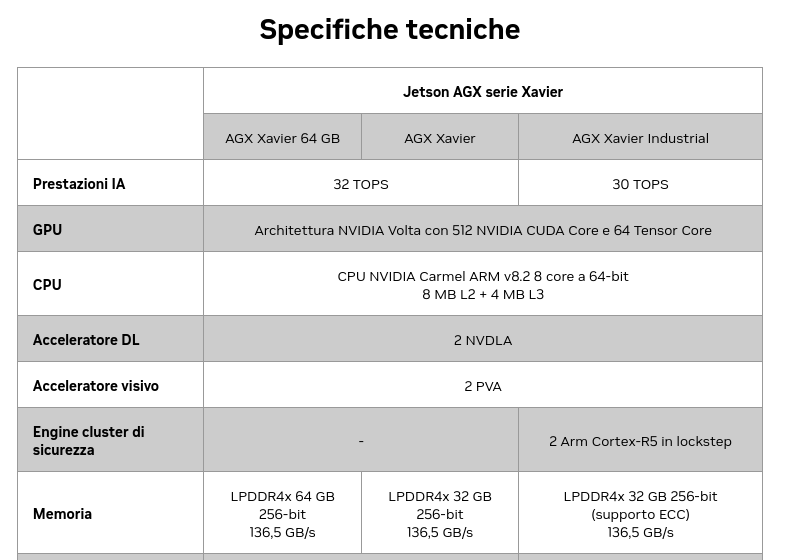
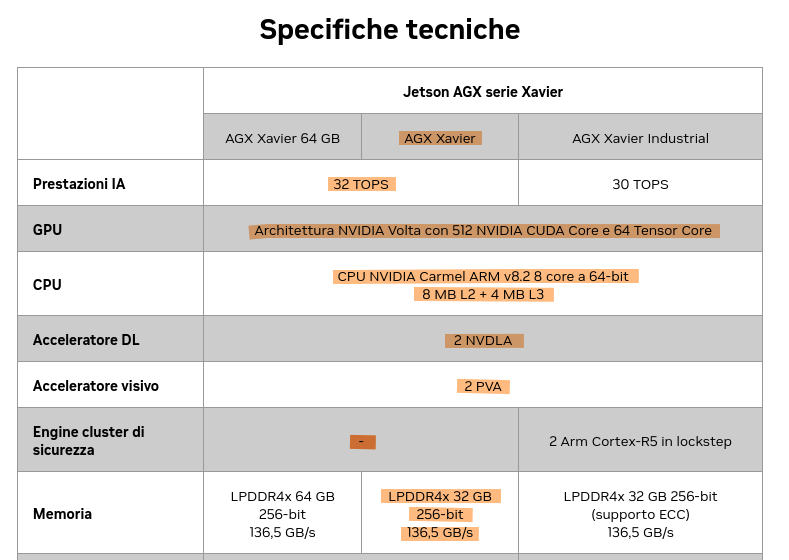
Add other data result on thesis

diff --git a/Thesis/src/modena.tex b/Thesis/src/modena.tex
@@ -750,7 +750,8 @@ Il programma di valutazione è disponibile pubblicamente e può essere accessibi
 
 \subsection{Ambiente Hardware e Software}
 
-Gli esperimenti sono stati condotti su un sistema con le seguenti specifiche tecniche:
+Gli esperimenti sono stati condotti su due diversi dispositivi.
+Il primo dispositivo è un \textbf{laptop} con le con le seguenti specifiche tecniche:
 
 \begin{itemize}
     \item CPU: 12th Gen Intel(R) Core(TM) i7-1280P
@@ -761,6 +762,19 @@ Gli esperimenti sono stati condotti su un sistema con le seguenti specifiche tec
     \item CUDA Driver Version: 535.183.01  
     \item CUDA Version: 12.2
 \end{itemize}
+
+\vspace{1cm}
+
+Il secondo dispositivo è una \textbf{board} detta anche \textbf{modulo}.
+Il sito ufficiale di \textit{NVIDIA} definisce che "\textit{la gamma di moduli Jetson Xavier™ include i primi computer del mondo progettati appositamente per le macchine autonome, con prestazioni IA fino a 32 TOPS che li rendono ideali per gestire l'odometria grafica, la fusione di sensori, la localizzazione e la mappatura, il rilevamento di ostacoli e gli algoritmi di pianificazione dei percorsi fondamentali per i robot di nuova generazione}" \cite{board-series}
+
+La \textcolor{orange}{specifiche tecniche} della board utilizzata sono quelle evidenziate in arancione e si riferiscono al modello \textbf{Nvidia Jetson Xavier AGX 32GB}:
+
+\begin{figure}[H]
+    \centering
+    \fbox{\includegraphics[width=1\textwidth]{img/specifiche_tecniche_board.png}}
+    \caption{Nvidia Jetson Xavier AGX 32GB \cite{board-specific}}
+\end{figure}
 
 \subsection{Procedura Sperimentale}
 
@@ -833,7 +847,7 @@ Si osserva inoltre che i tempi nella parte di \textbf{Stereo Matching} mostrano 
 
 \begin{table}[h]
     \centering
-    \caption{Esperimenti variazione raggio (KITTY DATASET - 04) }
+    \caption{Esperimenti variazione raggio (KITTY DATASET - 04) [laptop] }
     \begin{tabular}{lcccccc}
         \toprule
         \rowcolor{gray!20}
@@ -864,7 +878,7 @@ Si osserva inoltre che i tempi nella parte di \textbf{Stereo Matching} mostrano 
 
 \begin{table}[h]
     \centering
-    \caption{Esperimenti variazione raggio (KITTY DATASET - 06) }
+    \caption{Esperimenti variazione raggio (KITTY DATASET - 06) [laptop] }
     \begin{tabular}{lcccccc}
         \toprule
         \rowcolor{gray!20}
@@ -895,7 +909,7 @@ Si osserva inoltre che i tempi nella parte di \textbf{Stereo Matching} mostrano 
 \newpage
 \begin{table}[h]
     \centering
-    \caption{Esperimenti variazione raggio (KITTY DATASET - 07) }
+    \caption{Esperimenti variazione raggio (KITTY DATASET - 07) [laptop] }
     \begin{tabular}{lcccccc}
         \toprule
         \rowcolor{gray!20}
@@ -935,15 +949,18 @@ In questo capitolo viene introdotto il secondo esperimento. L'obiettivo è quell
 
 La parallelizzazione ha portato a un notevole incremento delle prestazioni in termini di tempo di esecuzione. Nello specifico, abbiamo osservato:
 \begin{itemize}
-\item Un incremento della velocità di esecuzione di oltre il \textbf{300\% }rispetto all'implementazione originale su CPU.
+\item Un incremento della velocità di esecuzione di oltre il \textbf{300\% }rispetto all'implementazione originale su CPU eseguendolo sul \textit{laptop}.
+\item Un incremento della velocità di esecuzione di oltre il \textbf{400\% }rispetto all'implementazione originale su CPU eseguendolo sulla \textit{board}.
 \item Una stabilità nella \textbf{precisione dei dati}, l'accuratezza è rimasta pressochè invariata.
 \end{itemize}
 Questo significativo aumento di efficienza dimostra il potenziale della computazione parallela su GPU per questo tipo di algoritmi di ricerca intensiva.
-Di seguito sono presentati i risultati dell'esperimento, accompagnati da un'analisi comparativa con le prestazioni ottenute dalla corrispondente implementazione su \textbf{CPU}.
+Di seguito sono presentati i risultati dell'esperimento, accompagnati da un'analisi comparativa delle prestazioni su \textbf{CPU}.
+
+\subsubsection{Risultati Laptop}
 
 \begin{table}[H]
     \centering
-    \caption{Esperimenti variazione raggio (KITTY DATASET - 04) }
+    \caption{Risultati globali (raggio default 2) (\textbf{KITTY DATASET - 04}) }
     \begin{tabular}{lcccccc}
         \toprule
         \rowcolor{gray!20}
@@ -971,11 +988,37 @@ Di seguito sono presentati i risultati dell'esperimento, accompagnati da un'anal
     \end{tabular}
 \end{table}
 
-\vspace{1cm}
-
 \begin{table}[H]
     \centering
-    \caption{Esperimenti variazione raggio (KITTY DATASET - 06) }
+    \caption{Risultati temporali (\textbf{KITTY DATASET - 04}) [laptop] }
+    \begin{tabular}{lcccccc}
+        \toprule
+        \rowcolor{gray!20}
+        Radius multiplier & 1.0 & \cellcolor{orange!40}2.0 & 4.0 & 8.0 & 16.0 \\
+        %%%
+        Stereo Matching \textcolor{blue}{GPU} (ms) & 3.00 & 3.00 & 3.00 & 3.00 & 3.00 \\
+        %%%
+        %%%
+        Stereo Matching \textcolor{blue}{GPU} (ms) & 3.00 & 3.00 & 3.00 & 3.00 & 3.00 \\
+        %%%
+        %%%
+        Stereo Matching \textcolor{blue}{GPU} (ms) & 3.00 & 3.00 & 3.00 & 3.00 & 3.00 \\
+        %%%
+        Stereo Matching \textcolor{orange}{CPU} (ms) & 3.00 & 3.00 & 3.00 & 3.00 & 3.00\\
+        \bottomrule
+    \end{tabular}
+\end{table}
+
+\begin{figure}[H]
+    \centering
+    \fbox{\includegraphics[width=0.8\textwidth]{img/time_comparison_laptop_kitti04.png}}
+    \caption{Comparazione dei tempi sull'algoritmo di Stereo Matching }
+\end{figure}
+
+\newpage
+\begin{table}[H]
+    \centering
+    \caption{Risultati globali con raggio pari al valore di default 2 \newline(\textbf{KITTY DATASET - 06}) [laptop]}
     \begin{tabular}{lcccccc}
         \toprule
         \rowcolor{gray!20}
@@ -1005,13 +1048,15 @@ Di seguito sono presentati i risultati dell'esperimento, accompagnati da un'anal
 
 \begin{figure}[H]
     \centering
-    \fbox{\includegraphics[width=1\textwidth]{img/time_comparison1_kitti06.png}}
+    \fbox{\includegraphics[width=1\textwidth]{img/time_comparison_laptop_kitti06.png}}
     \caption{Comparazione dei tempi sull'algoritmo di Stereo Matching }
 \end{figure}
 
+
+
 \begin{table}[H]
     \centering
-    \caption{Esperimenti variazione raggio (KITTY DATASET - 07) }
+    \caption{Risultati globali con raggio pari al valore di default 2 \newline(\textbf{KITTY DATASET - 07}) [laptop] }
     \begin{tabular}{lcccccc}
         \toprule
         \rowcolor{gray!20}
@@ -1038,6 +1083,33 @@ Di seguito sono presentati i risultati dell'esperimento, accompagnati da un'anal
         \bottomrule
     \end{tabular}
 \end{table}
+
+\begin{figure}[H]
+    \centering
+    \fbox{\includegraphics[width=1\textwidth]{img/time_comparison_laptop_kitti07.png}}
+    \caption{Comparazione dei tempi sull'algoritmo di Stereo Matching }
+\end{figure}
+
+\subsubsection{Risultati Board}
+
+\begin{figure}[H]
+    \centering
+    \fbox{\includegraphics[width=1\textwidth]{img/time_comparison_board_kitti04.png}}
+    \caption{Comparazione dei tempi sull'algoritmo di Stereo Matching }
+\end{figure}
+
+\begin{figure}[H]
+    \centering
+    \fbox{\includegraphics[width=1\textwidth]{img/time_comparison_board_kitti06.png}}
+    \caption{Comparazione dei tempi sull'algoritmo di Stereo Matching }
+\end{figure}
+
+\begin{figure}[H]
+    \centering
+    \fbox{\includegraphics[width=1\textwidth]{img/time_comparison_board_kitti07.png}}
+    \caption{Comparazione dei tempi sull'algoritmo di Stereo Matching }
+\end{figure}
+
 
 
 \subsubsection{Possibili ottimizazioni future}
